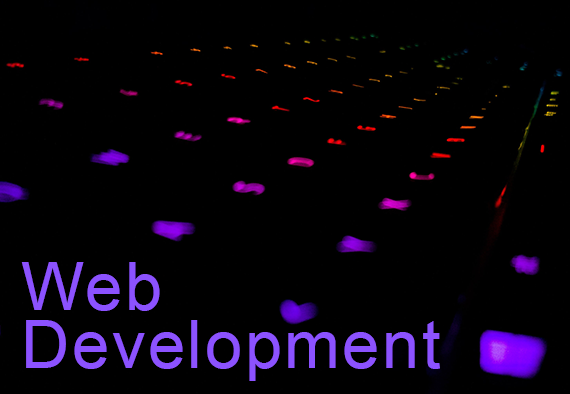
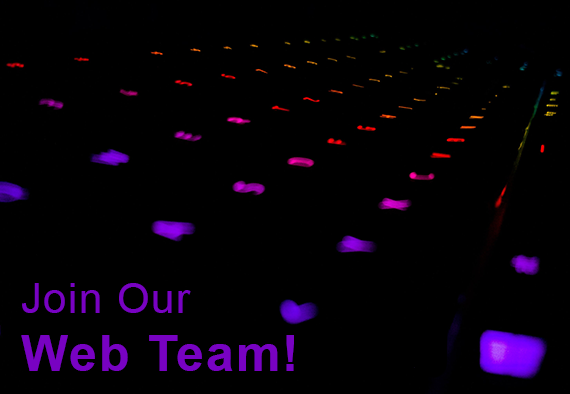
added partners, edited text

Changed region(s): [[0.0298, 0.6701, 0.7754, 0.9746]]

diff --git a/index.html b/index.html
@@ -98,7 +98,7 @@ https://templatemo.com/tm-531-reflux
               <div class="col-md-6">
                 <div class="left-image">
                   <!-- 💛 CHANGE ME src="assets/images/[image for project or assignment #1]" 💛 -->
-                  <img src="assets/images/fall-events-ad.png" alt="" />
+                  <img src="assets/images/copy-fall-avail-purp.png" alt="" />
                 </div>
               </div>
               <div class="col-md-6">
@@ -156,7 +156,7 @@ https://templatemo.com/tm-531-reflux
             <span>
               We work on our professional and technical skills, as well as our creativity and connections. 
               We hold events that give us experience in design, development, interviewing, internships, team work, and more! 
-              You can see some of the events we've had to do this in our Events section.
+              You can see some of the events we've had to build these skills in our Events section below.
             </span>
           </div>
           <div class="row">
@@ -168,9 +168,8 @@ https://templatemo.com/tm-531-reflux
                 <h4>Creativity</h4>
                 <!-- 💛 CHANGE ME <p>[short description of how you have strength #1]</p> 💛 -->
                 <p>
-                  Phasellus non convallis dolor. Integer tempor hendrerit arcu
-                  at bibendum. Sed ac ante non metus vehicula congue quis eget
-                  eros.
+                  We want our members to strengthen their creativity by working on individual projects, 
+                  participating in hackathons, and collaborating on ideas together. 
                 </p>
               </div>
             </div>
@@ -182,9 +181,8 @@ https://templatemo.com/tm-531-reflux
                 <h4>Development</h4>
                 <!-- 💛 CHANGE ME <p>[short description of how you have strength #2]</p> 💛 -->
                 <p>
-                  Proin lacus massa, eleifend sed fermentum in, dignissim vel
-                  metus. Nunc accumsan leo nec felis porttitor, ultricies
-                  faucibus purus mollis.
+                  With our technical workshops and new web development team, we create opportunities for 
+                  our members to get hands-on experience with different coding languages and industry tools and processes.
                 </p>
               </div>
             </div>
@@ -196,9 +194,8 @@ https://templatemo.com/tm-531-reflux
                 <h4>Teamwork</h4>
                 <!-- 💛 CHANGE ME <p>[short description of how you have strength #3]</p> 💛 -->
                 <p>
-                  Integer suscipit condimentum aliquet. Nam quis risus metus.
-                  Nullam faucibus quam eget arcu pretium tincidunt. Nam libero
-                  dui.
+                  With our Discord server and variety of events, we try to cultivate an environment of not only technical and professional individuals
+                  but also people who bring those skills to a team and learn to collaborate on cool projects together. 
                 </p>
               </div>
             </div>
@@ -210,9 +207,8 @@ https://templatemo.com/tm-531-reflux
                 <h4>Connections</h4>
                 <!-- 💛 CHANGE ME <p>[short description of how you have strength #4]</p> 💛 -->
                 <p>
-                  Vivamus et dui a massa venenatis fringilla. Proin lacus massa,
-                  eleifend sed fermentum in, dignissim vel metus. Nunc accumsan
-                  leo nec felis porttitor.
+                  We offer different kinds of social events for our members to connect on a regular basis, as well have an awesome Discord server for members 
+                  to chat about various topics, help each other on projects, and even host their own events!
                 </p>
               </div>
             </div>
@@ -707,17 +703,42 @@ https://templatemo.com/tm-531-reflux
             <div class="line-dec"></div>
             <!-- 💛 CHANGE ME <span>[overview of your project - see guide]</span> 💛-->
             <span>
-              This is a Bootstrap v4.2.1 CSS Template for you. Edit and use
-              this layout for your site. Updated on 21 May 2019 for repeated main menu HTML code.
+              Check out the companies who have partnered with us for some of our events! 
+              <br />Are you a company who would like to partner with us on an event? We'd love to connect, just check out our Contact section. 
             </span>
           </div>
-          <div class="right-image-post projects-bottom">
-            <div class="row">
-              <!-- example of spanning text accross whole site -->
-              <div class="col-md-12">
-                <!--Insert partner images-->
+          <div class="row">
+            <div class="col-sm-4">
+              <div class="card">
+                <div class="card-body">
+                  <a href="https://www.slalom.com/home" target="_blank">
+                    <img src="assets/images/slalom-logo-black.jpg">
+                  </a>
+                </div>
               </div>
             </div>
+            <div class="col-sm-4">
+              <div class="card">
+                <div class="card-body">
+                  <a href="https://www.girlscoutsp2p.org/" target="_blank">
+                    <img src="assets/images/GSPP.png">
+                  </a>
+                </div>
+              </div>
+            </div>
+            <div class="col-sm-4">
+              <div class="card">
+                <div class="card-body">
+                  <a href="https://www.centene.com/" target="_blank">
+                    <img src="assets/images/centene-logo.png">
+                  </a>
+                </div>
+              </div>
+            </div>
+          </div>
+          <br /><br /><br />
+          <div class="section-heading">
+            <h3>Sponsor options coming soon!</h3>
           </div>
         </div>
       </section>
@@ -730,68 +751,46 @@ https://templatemo.com/tm-531-reflux
             <div class="line-dec"></div>
             <!-- 💛 CHANGE ME <span>[overview of your project - see guide]</span> 💛-->
             <span>
-              This is a Bootstrap v4.2.1 CSS Template for you. Edit and use
-              this layout for your site. Updated on 21 May 2019 for repeated main menu HTML code.
+              We have a variety of events planned for this fall semester. These include: Technical Workshops, Professional Panels, Social Events, and our weekly Code Lounge. 
+              Stay tuned for our official fall schedule at the end of August!
             </span>
           </div>
           <div class="right-image-post projects-bottom">
             <div class="row">
-              <div class="col-md-6">
-                <div class="left-text">
-                  <!-- ✨ CAN CHANGE <h4>[title of info about the project]</h4> ✨-->
-                  <h4>What I Learned</h4>
-                  <!-- 💛 CHANGE ME <p>[description of info for this title]</p> 💛-->
-                  <p>
-                    Donec tristique feugiat lacus, at sollicitudin nunc euismod
-                    sed. Mauris viverra, erat non sagittis gravida, elit dui
-                    mollis ante, sit amet eleifend purus ligula eget eros. Sed
-                    tincidunt quam vitae neque pharetra dignissim eget ut
-                    libero.
-                  </p>
-                  <!-- ✨ CAN CHANGE <h4>[title of info about the project]</h4> ✨-->
-                  <h5>Inspiration</h5>
-                  <!-- 💛 CHANGE ME <p>[description of info for this title]</p> 💛-->
-                  <p>
-                    Donec tristique feugiat lacus, at sollicitudin nunc euismod
-                    sed. Mauris viverra, erat non sagittis gravida, elit dui
-                    mollis ante, sit amet eleifend purus ligula eget eros. Sed
-                    tincidunt quam vitae neque pharetra dignissim eget ut
-                    libero.
-                  </p>
-                  <!-- ✨ CAN CHANGE <h4>[title of info about the project]</h4> ✨-->
-                  <h5>Challenges</h5>
-                  <!-- 💛 CHANGE ME <p>[description of info for this title]</p> 💛-->
-                  <p>
-                    Donec tristique feugiat lacus, at sollicitudin nunc euismod
-                    sed. Mauris viverra, erat non sagittis gravida, elit dui
-                    mollis ante, sit amet eleifend purus ligula eget eros. Sed
-                    tincidunt quam vitae neque pharetra dignissim eget ut
-                    libero.
-                  </p>
-                </div>
-              </div>
-              <div class="col-md-6">
-                <div class="right-image">
+              <div class="col-md-7">
+                <div class="left-image">
                   <!-- 💛 CHANGE ME src="assets/images/[image-for-project-or-assignment-1]" 💛 -->
                   <img src="assets/images/schedue-dets-fall.png" alt="" />
                 </div>
               </div>
-              <!-- example of spanning text accross whole site -->
-              <div class="col-md-12">
-                <!-- ✨ CAN CHANGE <h4>[title of info about the project]</h4> ✨-->
-                <h5>How I Made It</h5>
-                <!-- 💛 CHANGE ME <p>[description of info for this title]</p> 💛-->
-                <p>
-                  Donec tristique feugiat lacus, at sollicitudin nunc euismod
-                  sed. Mauris viverra, erat non sagittis gravida, elit dui
-                  mollis ante, sit amet eleifend purus ligula eget eros. Sed
-                  tincidunt quam vitae neque pharetra dignissim eget ut
-                  libero.
-                </p>
+              <div class="col-md-5">
+                <div class="right-text">
+                  <!-- ✨ CAN CHANGE <h4>[title of info about the project]</h4> ✨-->
+                  <h4>Important Note</h4>
+                  <!-- 💛 CHANGE ME <p>[description of info for this title]</p> 💛-->
+                  <p>
+                    Some events are for GWC members only, while others are open to any students. Our workshops are open to all students! 
+                    <br />Some events will require registration, while others do not. 
+                    <br />We may have a mix of virtual and in-person events depending on survey results from our members.
+                  </p>
+                  <br />
+                  <!-- ✨ CAN CHANGE <h4>[title of info about the project]</h4> ✨-->
+                  <h5>Fall Availability</h5>
+                  <!-- 💛 CHANGE ME <p>[description of info for this title]</p> 💛-->
+                  <p>
+                    If you plan to attend events, please take a second to let us know what your schedule is like and what events you're interested in.  
+                    <strong>This form will close August 13th at 8:00pm (EST).</strong>
+                    <br /><br />
+                    <a href="https://bit.ly/3fb3Q6U" target="_blank">
+                      <button type="button" class="btn btn-primary">Survey</button> 
+                    </a>
+                  </p>
+                  <br />
+                </div>
+              </div>
               </div>
             </div>
           </div>
-        </div>
       </section>
 
       <section class="section project-two" data-section="section5">
